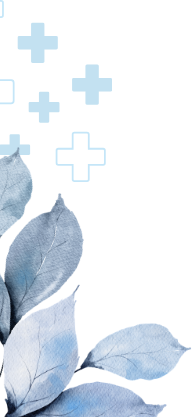
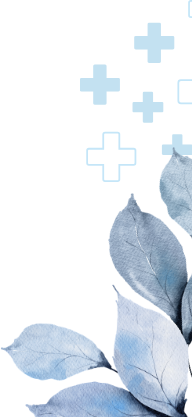
Add scroll-linked horizontal pan to About section leaves
Mirrored bottomleftleaves-crop.png so its pointed tip leads the
pan-in (it's the edge revealed first as the element slides in from
off-screen). The fade-in and left-to-right pan are now synced to a
single scroll window centered on the middle of the About section,
instead of two separate timing windows.

diff --git a/index.html b/index.html
@@ -233,12 +233,11 @@ main section { scroll-margin-top: 120px; }
 @media (min-width: 900px) { .about-grid { grid-template-columns: 1.1fr .9fr; } }
 
 #about { position: relative; overflow: hidden; }
-.about-deco-leaves { position: fixed; bottom: 0; left: 0; width: min(16vw, 180px); z-index: 2; pointer-events: none; opacity: 0; transition: opacity .3s var(--ease), transform .5s ease-out; will-change: transform; -webkit-mask-image: linear-gradient(0deg, transparent 0%, #000 8%); mask-image: linear-gradient(0deg, transparent 0%, #000 8%); }
-.about-deco-leaves.is-visible { opacity: .85; }
+.about-deco-leaves { position: fixed; bottom: 0; left: 0; width: min(11vw, 130px); z-index: 2; pointer-events: none; opacity: 0; transition: opacity .3s var(--ease), transform 1.4s ease-out; will-change: opacity, transform; -webkit-mask-image: linear-gradient(0deg, transparent 0%, #000 8%); mask-image: linear-gradient(0deg, transparent 0%, #000 8%); }
 @media (prefers-reduced-motion: reduce) { .about-deco-leaves { transition: none; } }
 .about-deco-plus { position: absolute; top: 0; right: 0; width: 64px; z-index: 0; pointer-events: none; opacity: .7; }
 #about .container { position: relative; z-index: 1; }
-@media (max-width: 640px) { .about-deco-leaves { width: 22vw; } .about-deco-plus { width: 48px; top: 0; right: 0; } }
+@media (max-width: 640px) { .about-deco-leaves { width: 16vw; } .about-deco-plus { width: 48px; top: 0; right: 0; } }
 
 /* Services list */
 .clinics { border: 1px solid var(--c-border-warm); border-radius: var(--radius-lg); overflow: hidden; background: var(--c-surface-white); }
@@ -978,24 +977,30 @@ body { padding-bottom: 64px; }
     var leaf = document.getElementById('aboutLeaves');
     var about = document.getElementById('about');
     if (!leaf || !about) return;
-    var MAX_PAN_X = 120;
-    function updatePan(){
-      if (reduceMotion) { leaf.style.transform = 'none'; return; }
+    var START_X = -220;
+    var END_X = 90;
+    var REVEAL_START = 0.35;
+    var REVEAL_END = 0.65;
+    function update(){
       var rect = about.getBoundingClientRect();
       var vh = window.innerHeight || document.documentElement.clientHeight;
       var progress = (vh - rect.top) / (vh + rect.height);
       progress = Math.min(Math.max(progress, 0), 1);
-      leaf.style.transform = 'translateX(' + (progress * MAX_PAN_X) + 'px)';
+
+      if (reduceMotion) {
+        leaf.style.transform = 'translateX(0)';
+        leaf.style.opacity = progress > 0 && progress < 1 ? .85 : 0;
+        return;
+      }
+
+      var reveal = (progress - REVEAL_START) / (REVEAL_END - REVEAL_START);
+      reveal = Math.min(Math.max(reveal, 0), 1);
+      var x = START_X + reveal * (END_X - START_X);
+      leaf.style.transform = 'translateX(' + x + 'px)';
+      leaf.style.opacity = (reveal * .85);
     }
-    window.addEventListener('scroll', updatePan, { passive: true });
-    updatePan();
-    if (!('IntersectionObserver' in window)) return;
-    var io = new IntersectionObserver(function(entries){
-      entries.forEach(function(entry){
-        leaf.classList.toggle('is-visible', entry.isIntersecting);
-      });
-    }, { threshold: 0.1 });
-    io.observe(about);
+    window.addEventListener('scroll', update, { passive: true });
+    update();
   }
 
   function initDotNav(){
